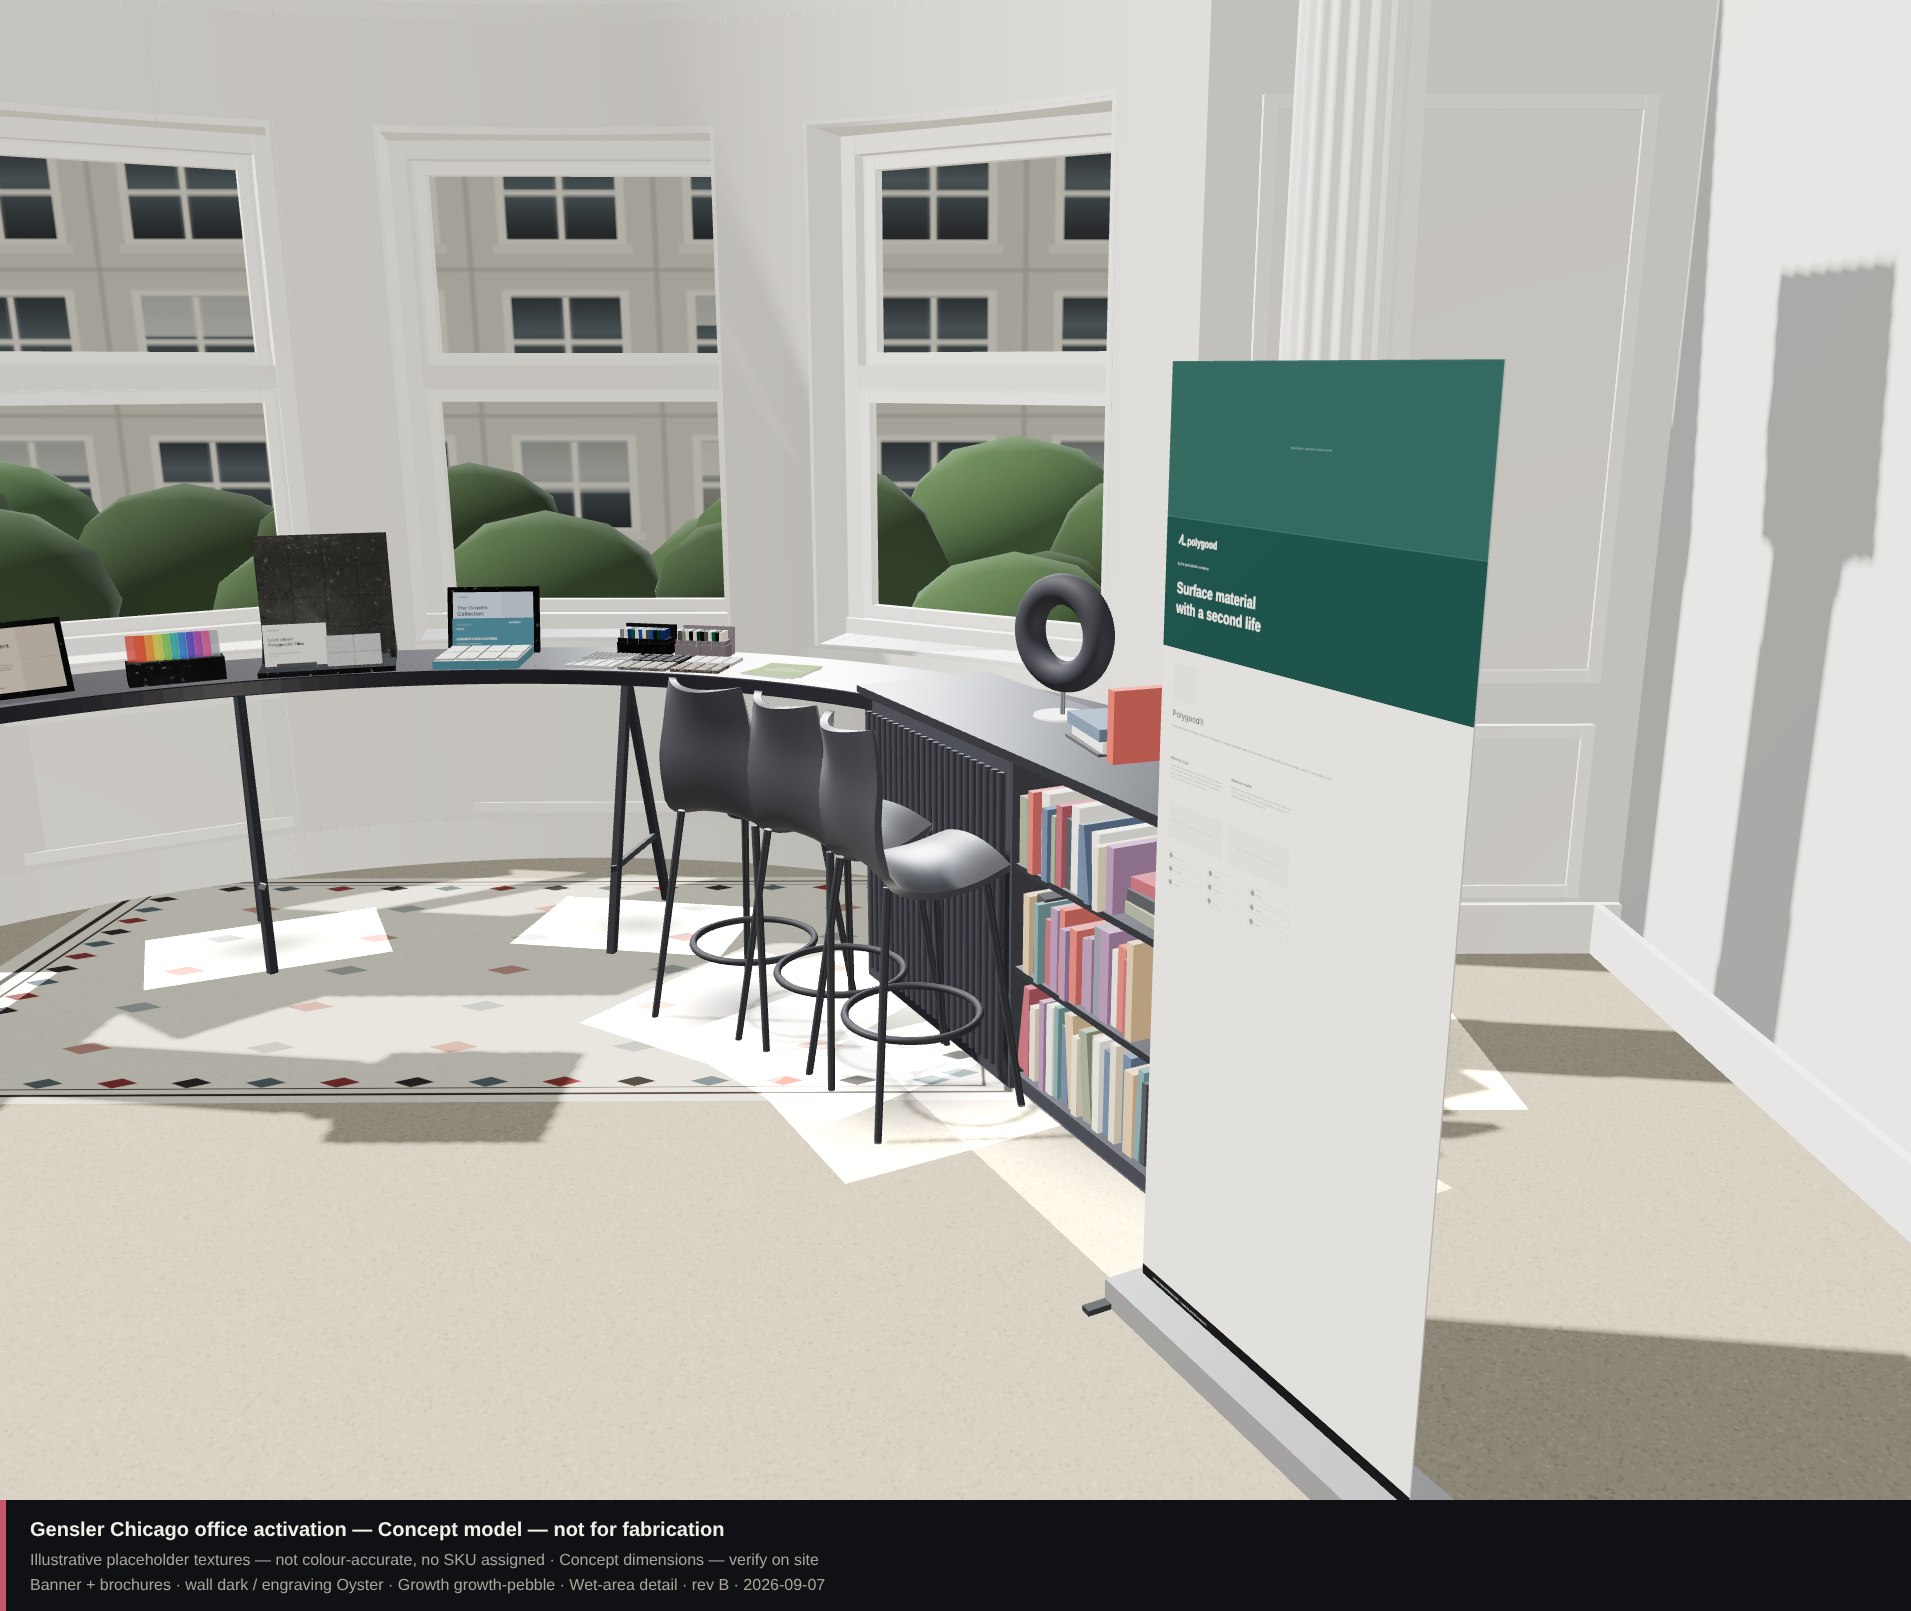
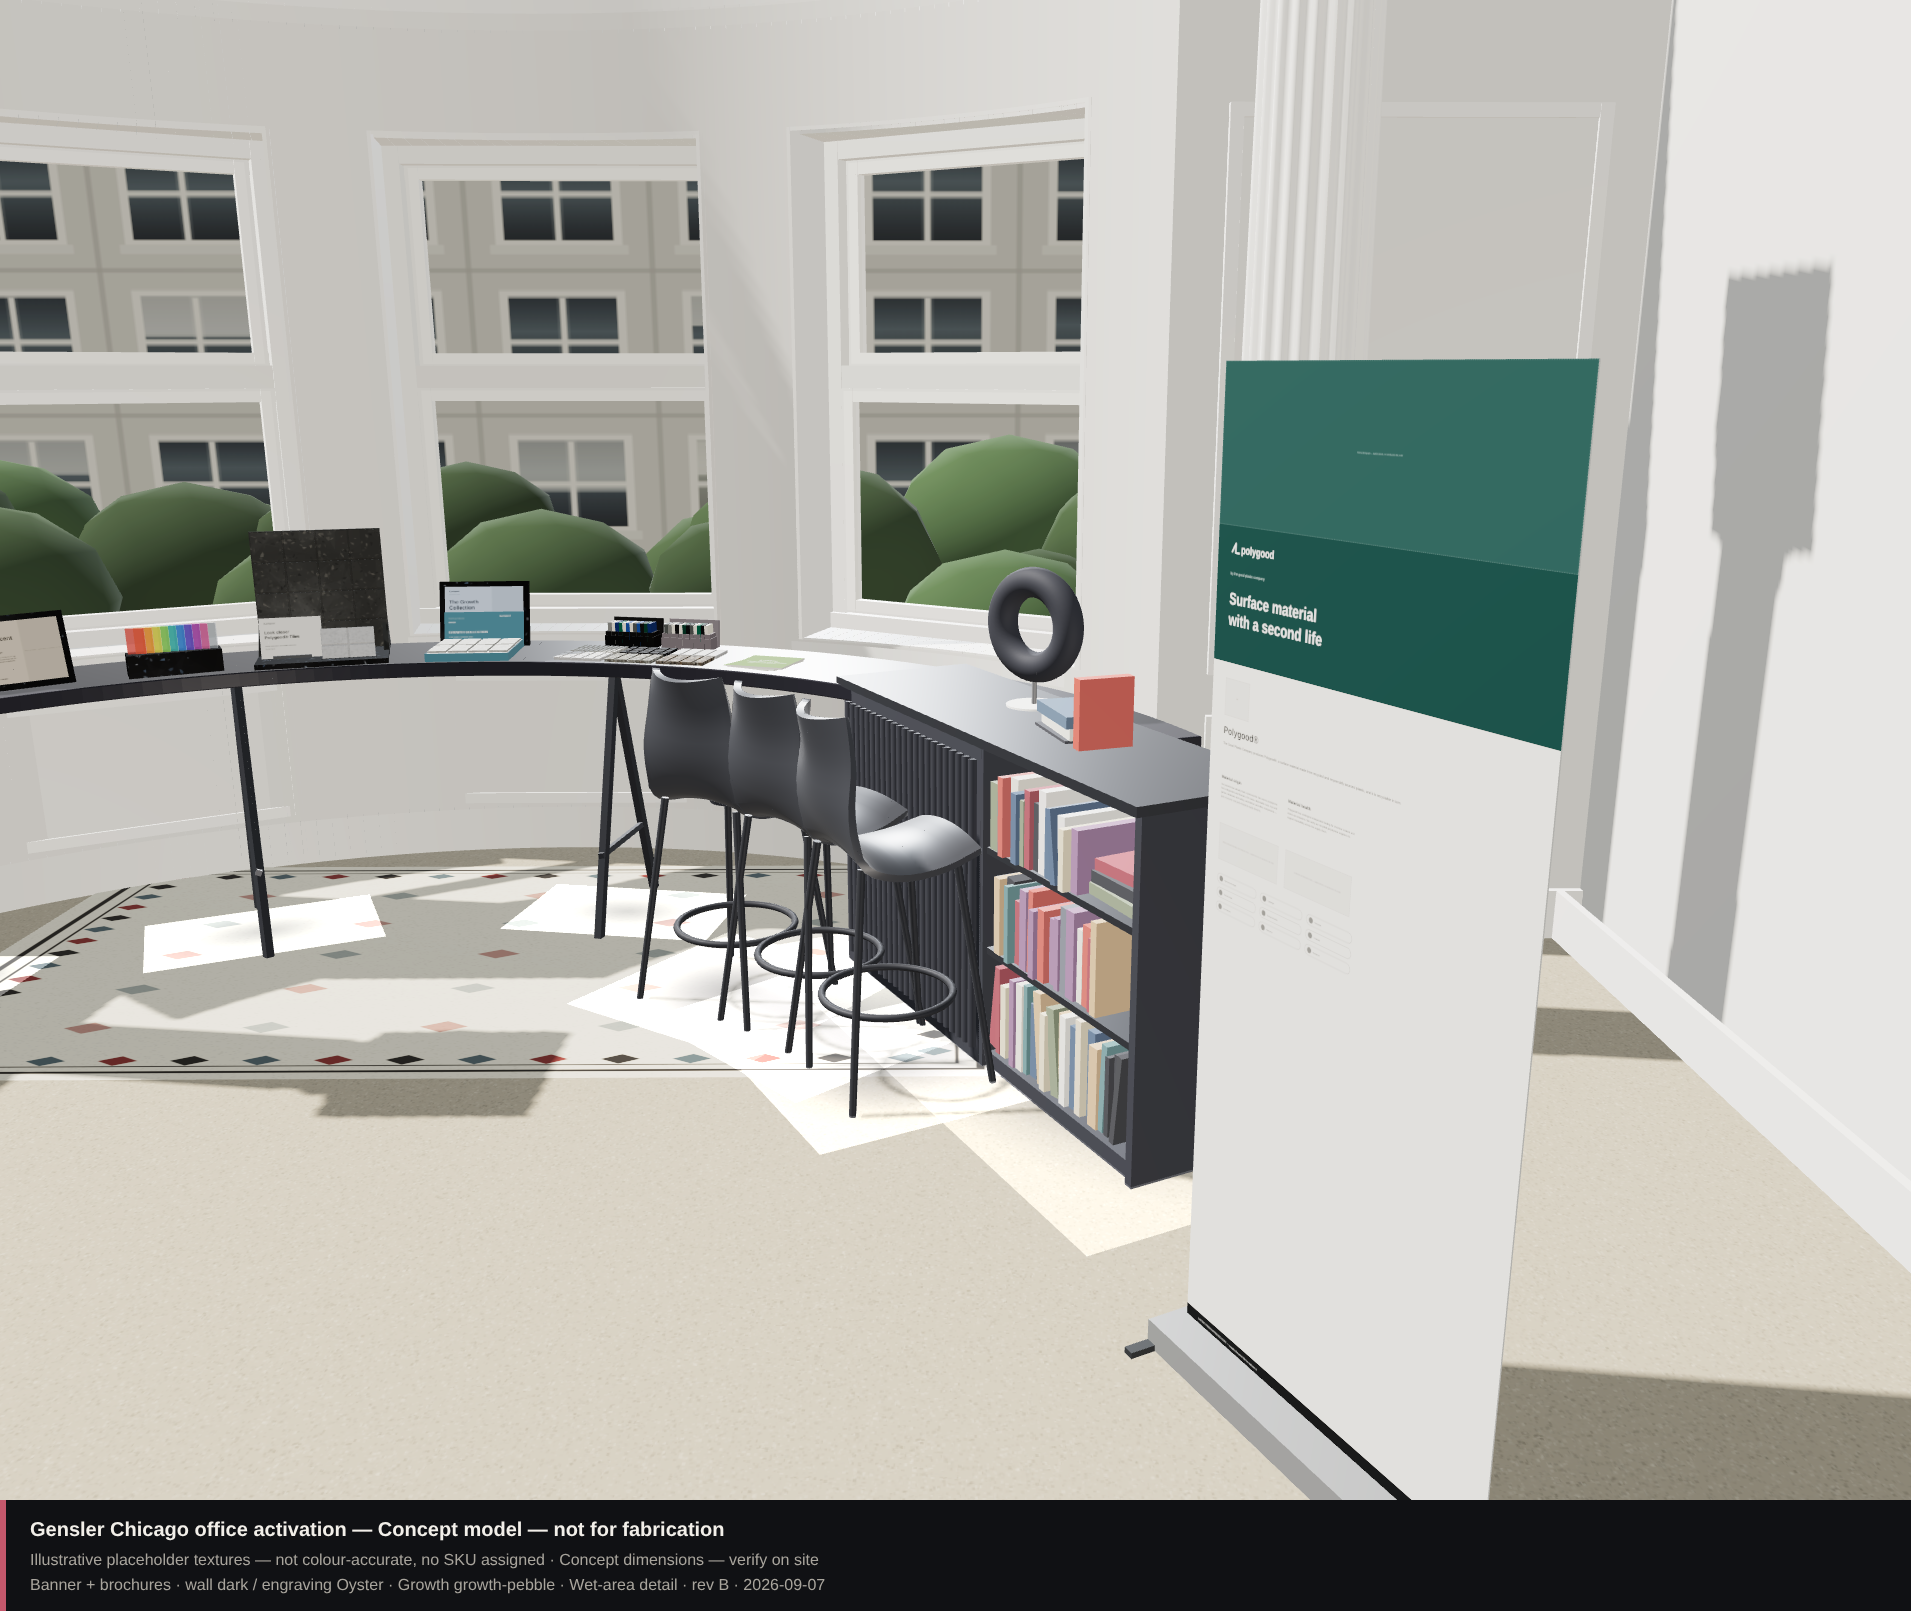
Move the roll-up clear of the credenza instead of parking it at the corner
Measured against the credenza's own rectangle, the stand cleared the shelving's
end by only 110 mm, and one corner of its footprint was still inside the 460 mm
depth band. Nothing intersected, but from anywhere in the room it stood at the
corner and screened the shelving - which is exactly what the config block above
it claims it does not do.

alongCredenza 1560 -> 1900, about 450 mm past the end. The stand is still the
right-most element and the credenza now reads in full behind it. Columns sit at
x +/-2660, z -780, so nothing new is in its way.

The lesson is worth keeping: "does not screen the credenza" was an argument
about WIDTH - 457 against 1780 - and it only holds if the stand is not parked
in front of the thing. Clearance in plan decides that, not the graphic's
dimensions. README updated to say so.

Fit check unchanged: one issue, the standing envelope finding. Footprint within
the 450 mm counter depth, deepest unit 425 mm (growth), clear of the credenza.

Verified: node --check clean; built single file loads from file:// with one
request and no console or page errors, both exports work; all five expo renders
regenerated with no page errors.

Claude-Session: https://claude.ai/code/session_01RrtzjYnURxMGb191qk9yjN

diff --git a/spaces/gensler-chicago-activation/config.js b/spaces/gensler-chicago-activation/config.js
@@ -287,7 +287,13 @@ window.PG_CONFIG = {
          the side wall, not the room.
          credenza values mirror venue.js: bayPt(63, 2.10), 1780 wide. */
       credenza: { angle: 63, radius: 2100, halfWidth: 890, depth: 460, height: 1000 },
-      alongCredenza: 1560,      // from its centre, past the far end
+      /* 1900 from the credenza's centre, not 1560. At 1560 the stand cleared
+         the credenza's end by only 110 mm and one corner of its footprint was
+         still inside the 460-deep band, so from anywhere in the room it stood
+         at the corner and screened the shelving — which is exactly what this
+         block says it does not do. 1900 puts it about 450 mm past the end,
+         standing in the open as the right-most element. */
+      alongCredenza: 1900,      // from its centre, well past the far end
       outFromCredenza: 470,     // toward the room, clear of the 460-deep carcass
       artwork: null
     },

diff --git a/spaces/gensler-chicago-activation/dist/index.html b/spaces/gensler-chicago-activation/dist/index.html
@@ -497,7 +497,13 @@ window.PG_CONFIG = {
          the side wall, not the room.
          credenza values mirror venue.js: bayPt(63, 2.10), 1780 wide. */
       credenza: { angle: 63, radius: 2100, halfWidth: 890, depth: 460, height: 1000 },
-      alongCredenza: 1560,      // from its centre, past the far end
+      /* 1900 from the credenza's centre, not 1560. At 1560 the stand cleared
+         the credenza's end by only 110 mm and one corner of its footprint was
+         still inside the 460-deep band, so from anywhere in the room it stood
+         at the corner and screened the shelving — which is exactly what this
+         block says it does not do. 1900 puts it about 450 mm past the end,
+         standing in the open as the right-most element. */
+      alongCredenza: 1900,      // from its centre, well past the far end
       outFromCredenza: 470,     // toward the room, clear of the 460-deep carcass
       artwork: null
     },

diff --git a/spaces/gensler-chicago-activation/README.md b/spaces/gensler-chicago-activation/README.md
@@ -128,6 +128,18 @@ Two things follow. 44.2 inches is short for a floor roll-up — most are near
 stands. And whether the 1123 mm includes the cassette is unconfirmed; it is
 drawn as graphic-only on a cassette, the taller reading.
 
+**Where it stands matters as much as how wide it is.** Set 1560 mm along the
+credenza's axis it cleared the shelving's end by only **110 mm**, with one
+corner of its footprint still inside the 460 mm depth band. No intersection —
+but from anywhere in the room it stood at the corner and screened the shelving,
+which is the opposite of what the arithmetic above says it does. It is now at
+**1900 mm**, about 450 mm past the end, standing in the open as the right-most
+element with the credenza reading in full behind it.
+
+The lesson generalises: "does not screen it" is a claim about **width**, and it
+only holds if the stand is not parked in front of the thing. Clearance in plan
+is what decides that, not the graphic's dimensions.
+
 #### Why the tiles stopped sharing the panel’s surface
 
 The six tiles follow the Growth swatch; the horizontal panel under the
